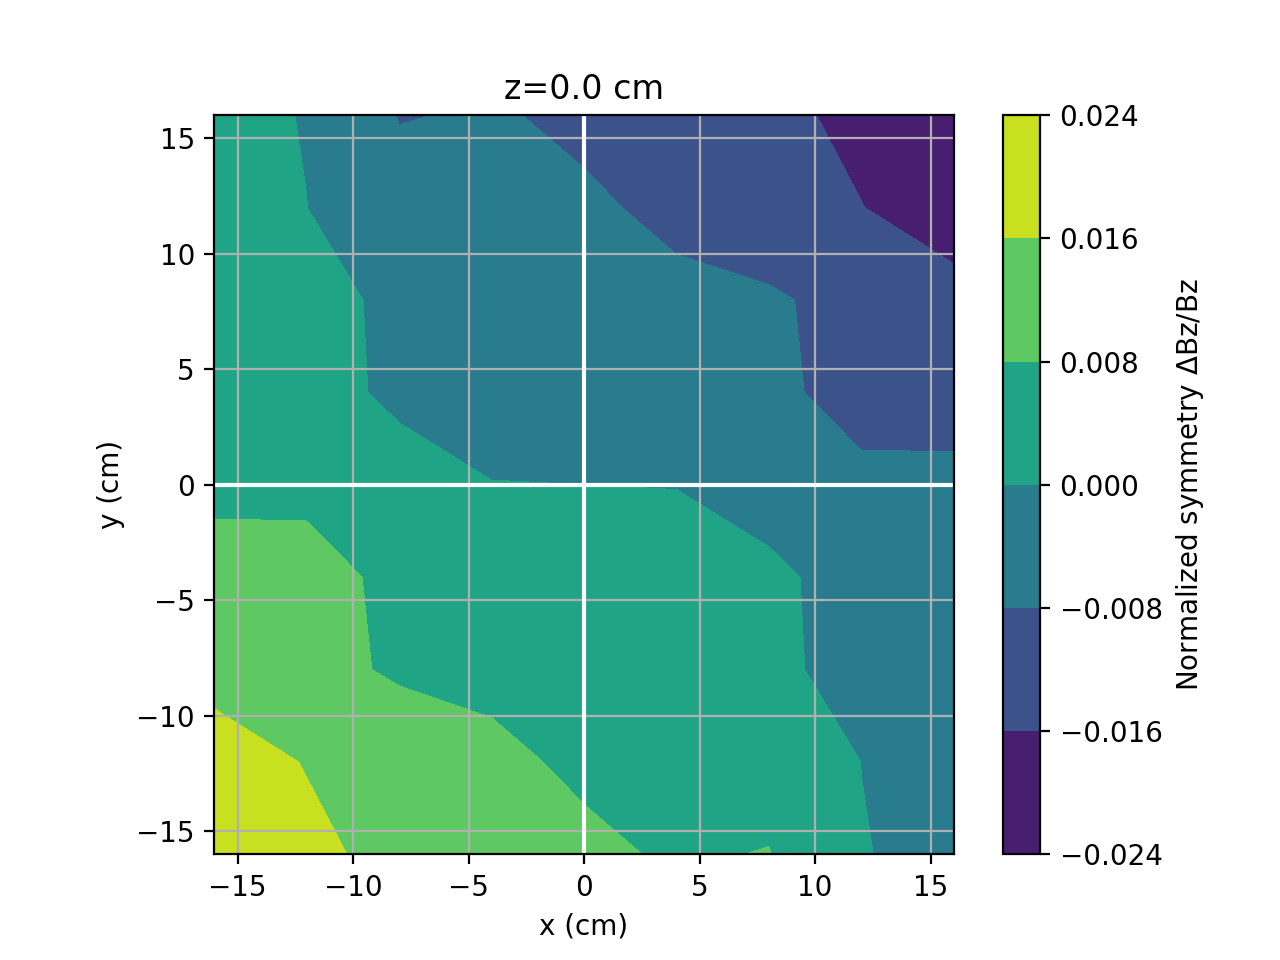
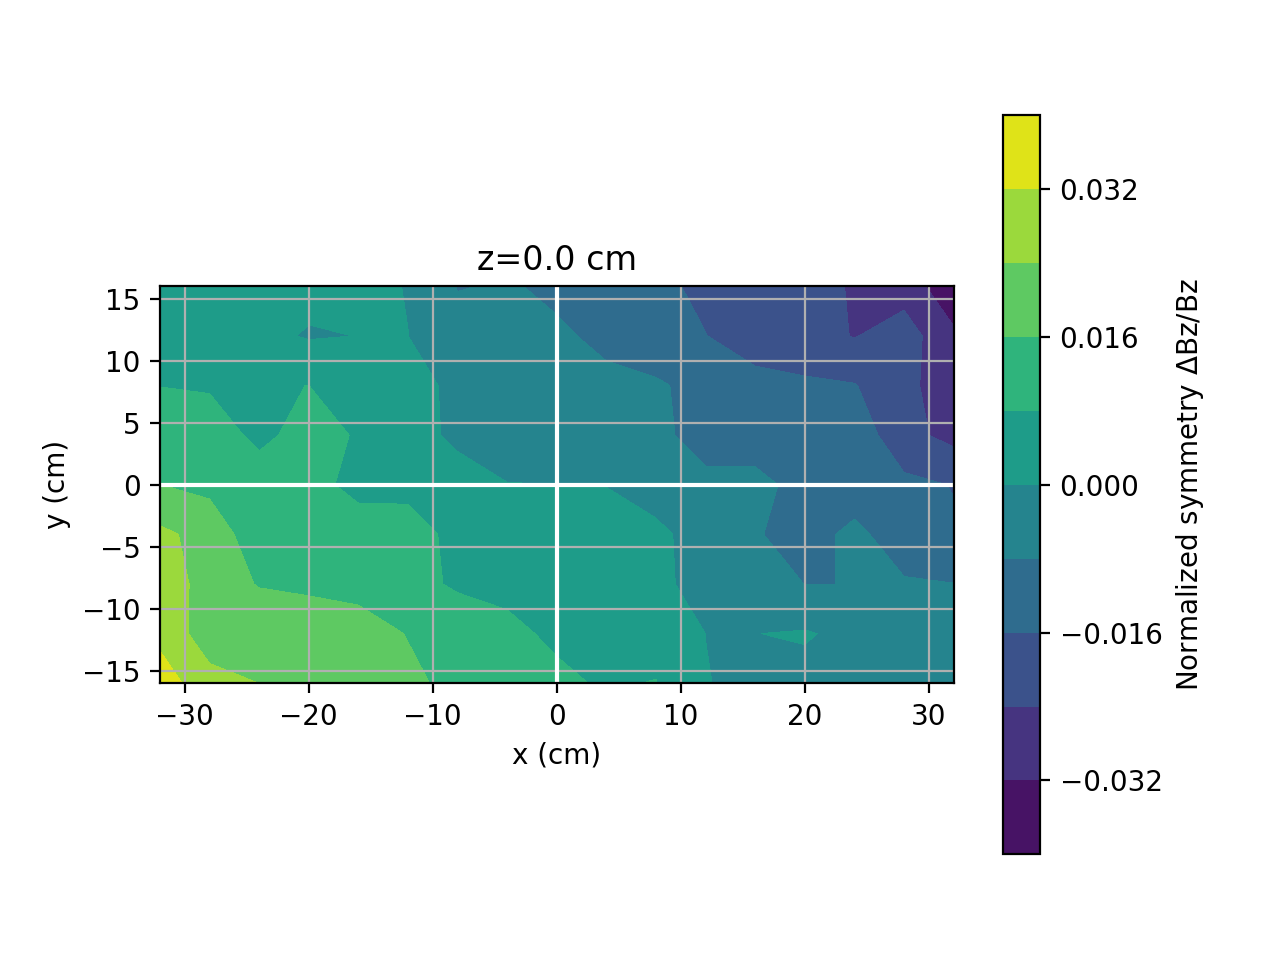
Updated delta b plots

diff --git a/plot_results.py b/plot_results.py
@@ -27,6 +27,7 @@ def compileResults(files):
     return results
 
 results = compileResults(files)
+results.to_csv('results/compiledResults.csv')
 
 fields = ['Bx', 'By', 'Bz', 'magnitude', 'Br', 'Btheta']
 
@@ -69,7 +70,7 @@ for z, z_grp in results.groupby('z'):
 
         ## Plots showing symmetry
         if field == 'Bz':
-            xLim = 16
+            xLim = 32
             yLim = 16
             xSteps = int(xLim / 2 + 1) # spacing of 4 cm
             ySteps = int(yLim / 2 + 1) # spacing of 4 cm
@@ -83,7 +84,7 @@ for z, z_grp in results.groupby('z'):
             fig = plt.figure()
             ax = fig.add_subplot()
             ax.set_aspect('equal', adjustable='box')
-            plt.contourf(x_interp, y_interp, DeltaBNormalized, levels=5)
+            plt.contourf(x_interp, y_interp, DeltaBNormalized, levels=10)
             plt.colorbar(label=f'Normalized symmetry $\Delta${field}/{field}')
             plt.axhline(color='white')
             plt.axvline(color='white')
@@ -120,7 +121,7 @@ for field in isocontourFields:
         z=results['z'].to_numpy(),
         value=results[field].to_numpy(),
         opacity=0.6,
-        surface_count=8,
+        surface_count=20,
         caps=dict(x_show=False, y_show=False, z_show=False),
         colorscale='BlueRed',
         colorbar={'title': field}
@@ -133,6 +134,7 @@ for field in isocontourFields:
 os.listdir(folder)
 linearFiles = [file for file in os.listdir(folder) if file.endswith('Bfield_linear.csv')]
 linearResults = compileResults(linearFiles)
+linearResults.to_csv('results/linearResultsCompiled.csv')
 
 linearResults['dBdz'] = linearResults['Bz'].diff()/linearResults['z'].diff() * 20
 linearFields = ['Bx', 'By', 'Bz', 'magnitude', 'dBdz']
